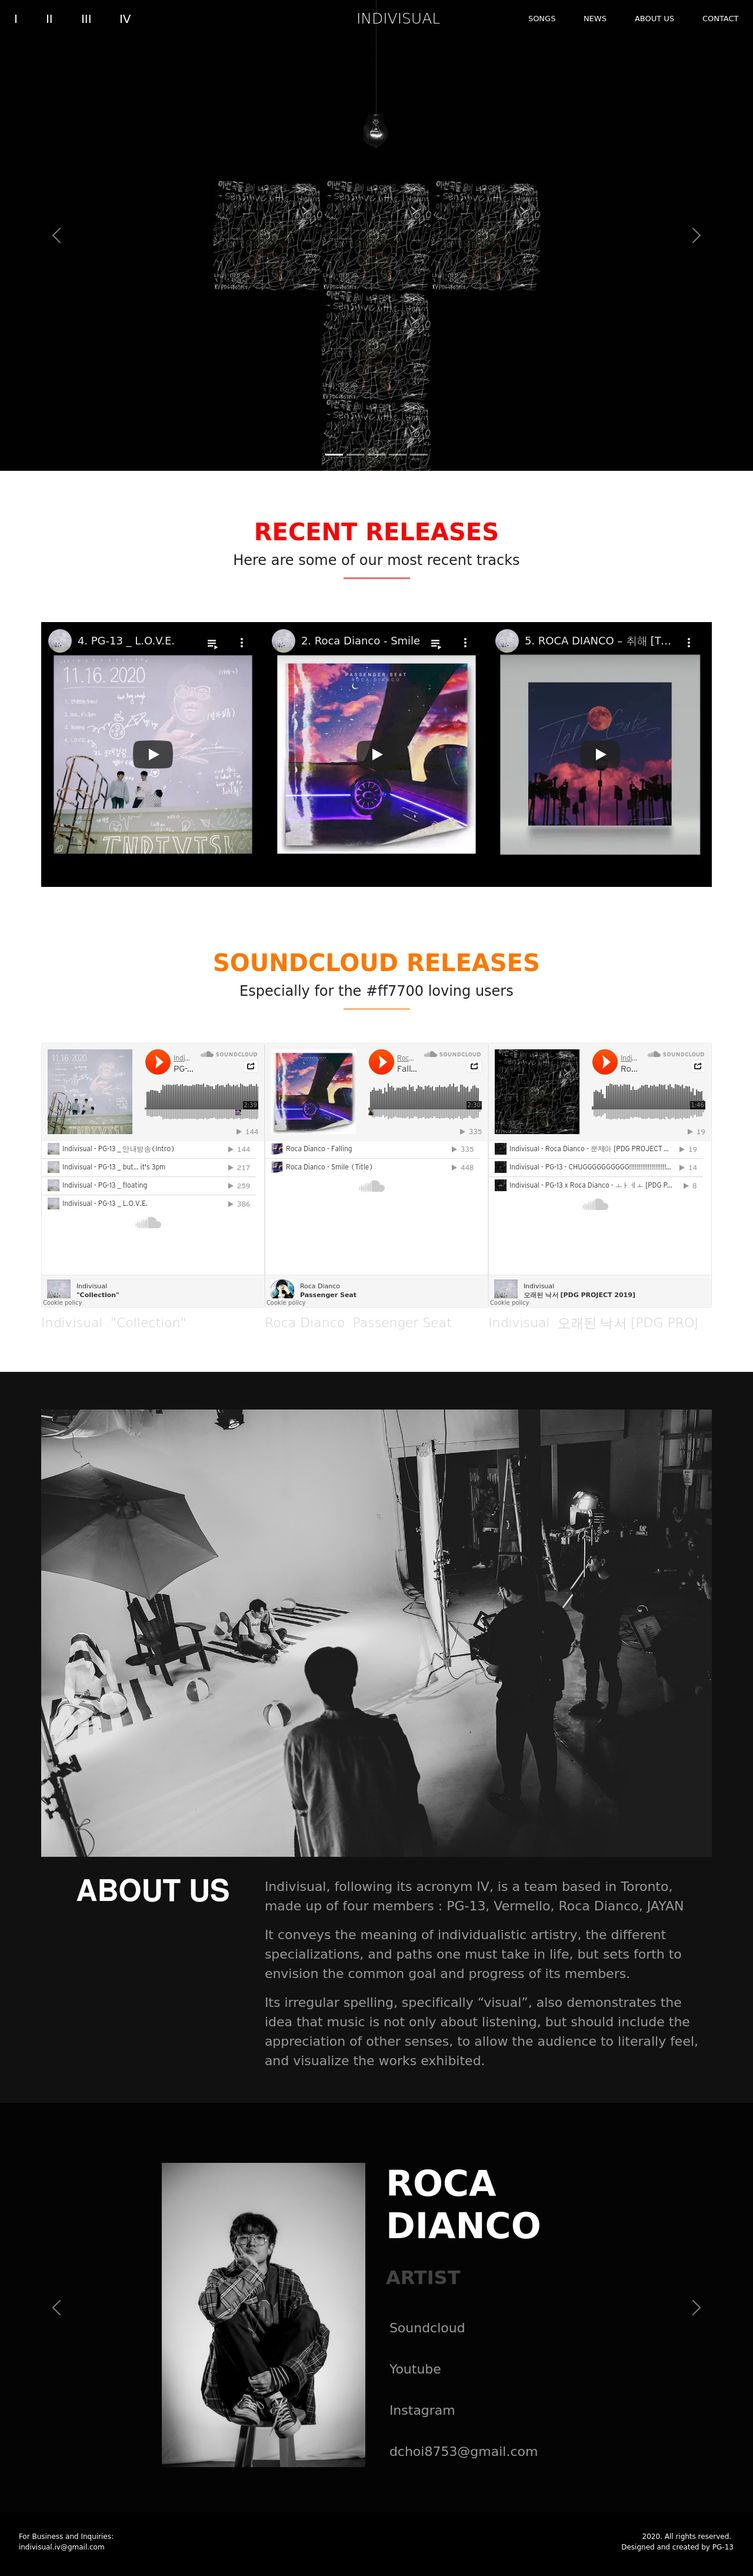
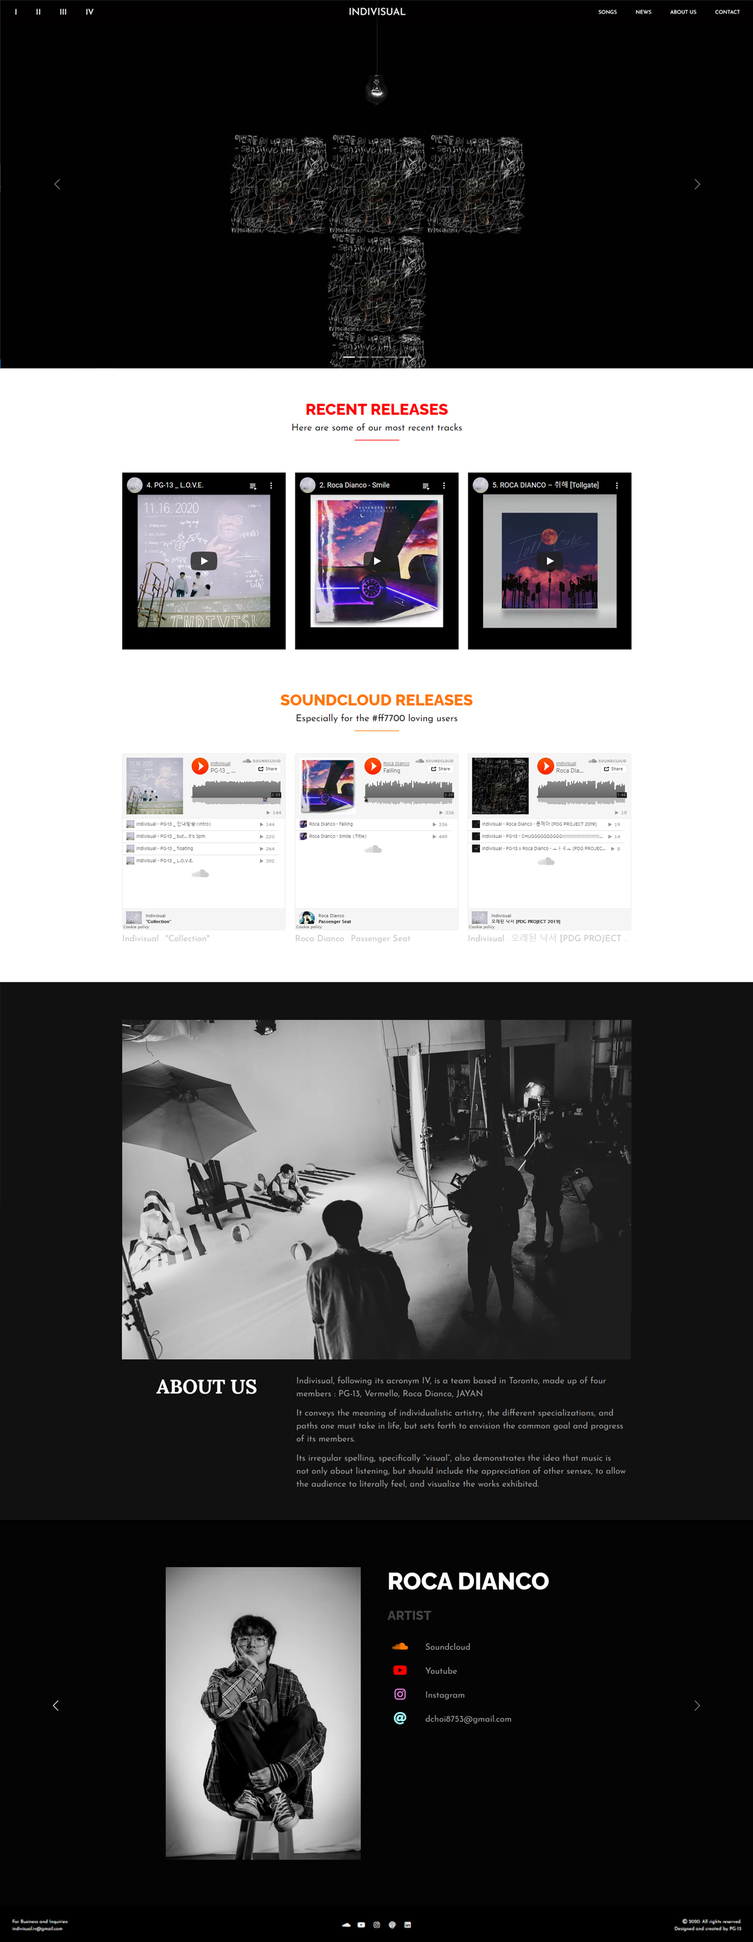
added functionality in mywork section where clicking an image in the scroll contents section opens a full screen modal with a larger view of the image. Also fixed styling error where background was not fitting to screen dimensions in certain viewport sizes. + minor styling fixes

diff --git a/src/index.css b/src/index.css
@@ -6,7 +6,7 @@ code {
     monospace;
 }
 
-/* Custom Properties */
+/* Custom Properties------------------------------------------------------------------ */
 
   :root {
     /*font family*/
@@ -26,21 +26,7 @@ code {
     --fs-body: 1.25rem;
   }
 
-/* General Styles */
-
-  body {
-
-    /* Locks height of page and content to prevent 
-    page from extending past 100vh */
-    height: 100%;
-    overflow: hidden;
-    margin: 0;
-    /* Typography */
-    font-family: var(--ff-body);
-    font-size: var(--fs-body);
-    -webkit-font-smoothing: antialiased;
-    -moz-osx-font-smoothing: grayscale;
-  }
+/* General Styles--------------------------------------------------------------------- */
 
   @keyframes fadeInAnimation { 
     0% { 
@@ -48,11 +34,28 @@ code {
     } 
     100% { 
         opacity: 1; 
-     } 
-  } 
+    } 
+  }
+
+  html, body {
+    margin: 0;
+    padding: 0;
+  }
+
+  body {
+    /* Locks height of page and content to prevent 
+    page from extending past 100vh */
+    height: 100%;
+    overflow: hidden;
+    /* Typography */
+    font-family: var(--ff-body);
+    font-size: var(--fs-body);
+    -webkit-font-smoothing: antialiased;
+    -moz-osx-font-smoothing: grayscale;
+  }
 
   section {
-    animation: fadeInAnimation ease 0.1s;
+    animation: fadeInAnimation ease 0.2s;
     animation-iteration-count: 1;
     animation-fill-mode: forwards;
 
@@ -71,12 +74,51 @@ code {
     font-size: var(--fs-h2);
   }
 
-  /* Spaces in between paragraph blocks */
+  /* Spaces in-between paragraph blocks */
   .space {
     padding-top: 3rem;
   }
 
-/* General Components */
+  /* Split Screen Styling */
+  .split {
+    /* If split class covers another element, add 
+    higher z-index to the element to change priority. */
+    z-index: 1;
+    height: 100%;
+    width: 50%;
+    position: fixed;
+    overflow-x: hidden;
+    /* Hide scrollbar for IE/Edge and Firefox, respectively */
+    -ms-overflow-style: none;
+    scrollbar-width: none;
+    scroll-behavior: smooth;
+  }
+
+  /* Hide scrollbar for Chrome, Safari and Opera */
+  .split::-webkit-scrollbar {
+    display: none;
+  }
+
+  .left {
+    left: 0;
+  }
+
+  .right {
+    right: 0;
+  }
+
+  .centered {
+    position: absolute;
+    top: 50%;
+    left: 50%;
+    transform: translate(-50%, -50%);
+  }
+
+  .strip {
+    height: 100vh;
+  }
+
+/* General Components----------------------------------------------------------------- */
 
   /* Navbar */
   .navbar {
@@ -145,47 +187,12 @@ code {
     border-bottom: 2px solid #000;
   }
 
-  .strip {
-    height: 100vh;
-  }
-
-  /* Split Screen Styling */
-  .split {
-    /* If split class covers another element, add 
-    higher z-index to the element to change priority. */
-    z-index: 1;
-    height: 100%;
-    width: 50%;
-    position: fixed;
-    overflow-x: hidden;
-    /* Hide scrollbar for IE/Edge and Firefox, respectively */
-    -ms-overflow-style: none;
-    scrollbar-width: none;
-    scroll-behavior: smooth;
-  }
-
-  /* Hide scrollbar for Chrome, Safari and Opera */
-  .split::-webkit-scrollbar {
-    display: none;
-  }
-
-  .left {
-    left: 0;
-  }
-
-  .right {
-    right: 0;
-  }
-
-  .centered {
-    position: absolute;
-    top: 50%;
-    left: 50%;
-    transform: translate(-50%, -50%);
-  }
-
   /* Scroll Content */
   .content-scroll {
+    animation: fadeInAnimation ease 0.2s;
+    animation-iteration-count: 1;
+    animation-fill-mode: forwards;
+
     width: 90%;
     height: 550px;
     margin: auto auto auto 1rem;
@@ -196,45 +203,79 @@ code {
     scroll-behavior: smooth;
   }
 
-  .content-scroll-arrow {
-    color: var(--clr-dark);
-    text-align: center;
-  }
-
   /* Hide scrollbar for Chrome, Safari and Opera */
   .content-scroll::-webkit-scrollbar {
     display: none;
   }
 
-  .thumbnail_img {
-    width: 90%;
-    transition: 
-    transform 100ms cubic-bezier(.5, 0, .5, 1),
-    opacity 250ms linear;
+  .content-scroll-arrow {
+    color: var(--clr-dark);
+    text-align: center;
   }
 
-  .thumbnail_img:hover{
-    transform: scale(1.2);
+  /* Modal Content */
+  .modal-background {
+    animation: fadeInAnimation ease 0.2s;
+    animation-iteration-count: 1;
+    animation-fill-mode: forwards;
+
+    width: 100vw;
+    height: 100vh;
+    background: linear-gradient( rgba(0, 0, 0, 0.8), rgba(0, 0, 0, 0.8) );
+    z-index: 999;
   }
 
-  .project_img, .project_video {
-    width: 100%;
+  .modal {
+
+    display: flex;
+    position: fixed;
+    z-index: 1000;
+    top: 50%;
+    left: 50%;
+    transform: translate(-50%, -50%);
+    overflow: auto;
+    height: 800px;
+
+    /* Hide scrollbar for IE/Edge and Firefox, respectively */
+    /* -ms-overflow-style: none;
+    scrollbar-width: none;
+    scroll-behavior: smooth; */
   }
 
-  .project_video:hover, .project_video:focus {
-    outline: none;
+  /* Hide scrollbar for Chrome, Safari and Opera */
+  /* .modal::-webkit-scrollbar {
+    display: none;
+  } */
+
+  /* .close-modal-button {
+    color: #fff;
+    font-size: var(--fs-h2);
+    position: absolute;
+    top: 5%;
+    right: 25%;
+    width: 10%;
+    height: 10%;
+    border: none;
+    background-color: transparent;
+    cursor: pointer;
+    z-index: 1000;
+  } */
+
+  .modal_img {
+    width: 75%;
+    overflow: hidden;
   }
 
-/* Home Screen */
+/* Home Screen----------------------------------------------------------------------- */
 
-/* About Screen */
+/* About Screen---------------------------------------------------------------------- */
 
   .about {
     display: flex;
     justify-content: flex-start;
   }
 
-/* Skills Screen */
+/* Skills Screen--------------------------------------------------------------------- */
 
   .skills {
     display: flex;
@@ -247,7 +288,7 @@ code {
     text-align: right;
   }
 
-/* My Work Screen */
+/* My Work Screen--------------------------------------------------------------------- */
 
   .mywork {
     display: flex;
@@ -262,7 +303,28 @@ code {
     text-align: center;
   }
 
-/* Contact Screen */
+  .thumbnail_img {
+    width: 90%;
+    transition: transform 100ms cubic-bezier(.5, 0, .5, 1),
+      opacity 250ms linear;
+    cursor: pointer;
+  }
+
+  .thumbnail_img:hover{
+    transform: scale(1.2);
+  }
+
+  .project_img, .project_video {
+    width: 100%;
+    cursor: pointer;
+  }
+
+  .project_video:hover, .project_video:focus {
+    outline: none;
+  }
+
+/* Contact Screen--------------------------------------------------------------------- */
+  
   .contact-link {
     font-size: 3rem;
     text-decoration: none;
@@ -274,7 +336,7 @@ code {
     color: var(--clr-accent);
   }
 
-/* Screen Optimization */
+/* Screen Optimization---------------------------------------------------------------- */
 
 @media (max-width: 1919px ) {
   .split, .side.strip{
@@ -286,7 +348,7 @@ code {
   }
 }
 
-@media (max-width: 500px) {
+@media (max-width: 1024px) {
   .centered.strip {
     width: 100%;
   }

diff --git a/src/screens/MyWorkScreen.js b/src/screens/MyWorkScreen.js
@@ -40,6 +40,19 @@ import cancerSvmModel_bw from '../img/thumbnails/cancerSvmModel_bw.jpg';
 function MyWorkScreen (props) {
     const [work, setWork] = useState(indivisualWebsite_c);
 
+    const [image, setImage] = useState('');
+    const [modalVisible, setModalVisible] = useState(false);
+
+    const openModal = (img) => {
+        setImage(img);
+        setModalVisible(true);
+    }
+
+    const closeModal = (img) => {
+        setImage('');
+        setModalVisible(false);
+    }
+
     return <section className="mywork">
         <SectionBorder></SectionBorder>
         <img src={mywork_center_strip} alt="center strip" className="centered strip"></img>
@@ -89,8 +102,8 @@ function MyWorkScreen (props) {
                     (work === vehicleKnnModel_c) ? <VehicleKnnModel></VehicleKnnModel>:
                     (work === gradeRegressionModel_c) ? <GradeRegressionModel></GradeRegressionModel>:
                     (work === cancerSvmModel_c) ? <CancerSvmModel></CancerSvmModel>:
-                    (work === indivisualWebsite_c) ? <IndivisualWebsite></IndivisualWebsite>:
-                    (work === restaurantWebsite_c) ? <RestaurantWebsite></RestaurantWebsite>:
+                    (work === indivisualWebsite_c) ? <IndivisualWebsite openModal={openModal.bind(this)}></IndivisualWebsite>:
+                    (work === restaurantWebsite_c) ? <RestaurantWebsite openModal={openModal.bind(this)}></RestaurantWebsite>:
                     <div>okok</div>
                 }
                 <a href="#end-of-scroll">
@@ -100,6 +113,15 @@ function MyWorkScreen (props) {
                 </a>
             </div>
         </div>
+        {modalVisible && <div className="modal-background" onClick={() => closeModal()}>
+            <div className="modal">
+                <div className="modal-content" style={{display:"inline", textAlign:"center"}}>
+                    <img src={image} alt="sample code of the project" className="modal_img"></img>
+                </div>
+            </div>
+            {/* <button className="close-modal-button" 
+            onClick={() => closeModal()}>X</button> */}
+            </div>}
     </section>
 }
 

diff --git a/src/components/content/IndivisualWebsite.js b/src/components/content/IndivisualWebsite.js
@@ -1,4 +1,4 @@
-import React from 'react';
+import React, { useState } from 'react';
 
 import img0 from '../../img/projects/indivisualWebsite/img0.jpg';
 
@@ -8,7 +8,8 @@ function IndivisualWebsite (props) {
             <p id="start-of-scroll">
                 <a href="https://www.indivisualiv.com" target="_blank" rel="noopener noreferrer">www.indivisualiv.com</a>
             </p>
-            <img src={img0} alt="sample code of the project" className="project_img"></img>
+            <img src={img0} alt="sample code of the project" className="project_img"
+                onClick={() => props.openModal(img0)}></img>
             <p className="space" id="end-of-scroll">
                 Frontend:<br/>
                 HTML, CSS, BootStrap, JS, JQuery

diff --git a/src/components/content/RestaurantWebsite.js b/src/components/content/RestaurantWebsite.js
@@ -5,7 +5,8 @@ import img0 from '../../img/projects/restaurantWebsite/img0.jpg';
 function RestaurantWebsite (props) {
     return <div>
         <div className="content-scroll" style={{textAlign: "center", width:"80%"}}>
-            <img src={img0} alt="sample code of the project" className="project_img" id="start-of-scroll"></img>
+            <img src={img0} alt="sample code of the project" className="project_img" id="start-of-scroll"
+                onClick={() => props.openModal(img0)}></img>
             <p className="space" id="end-of-scroll">
                 Frontend:<br/>
                 HTML, CSS, BootStrap, JS, JQuery
